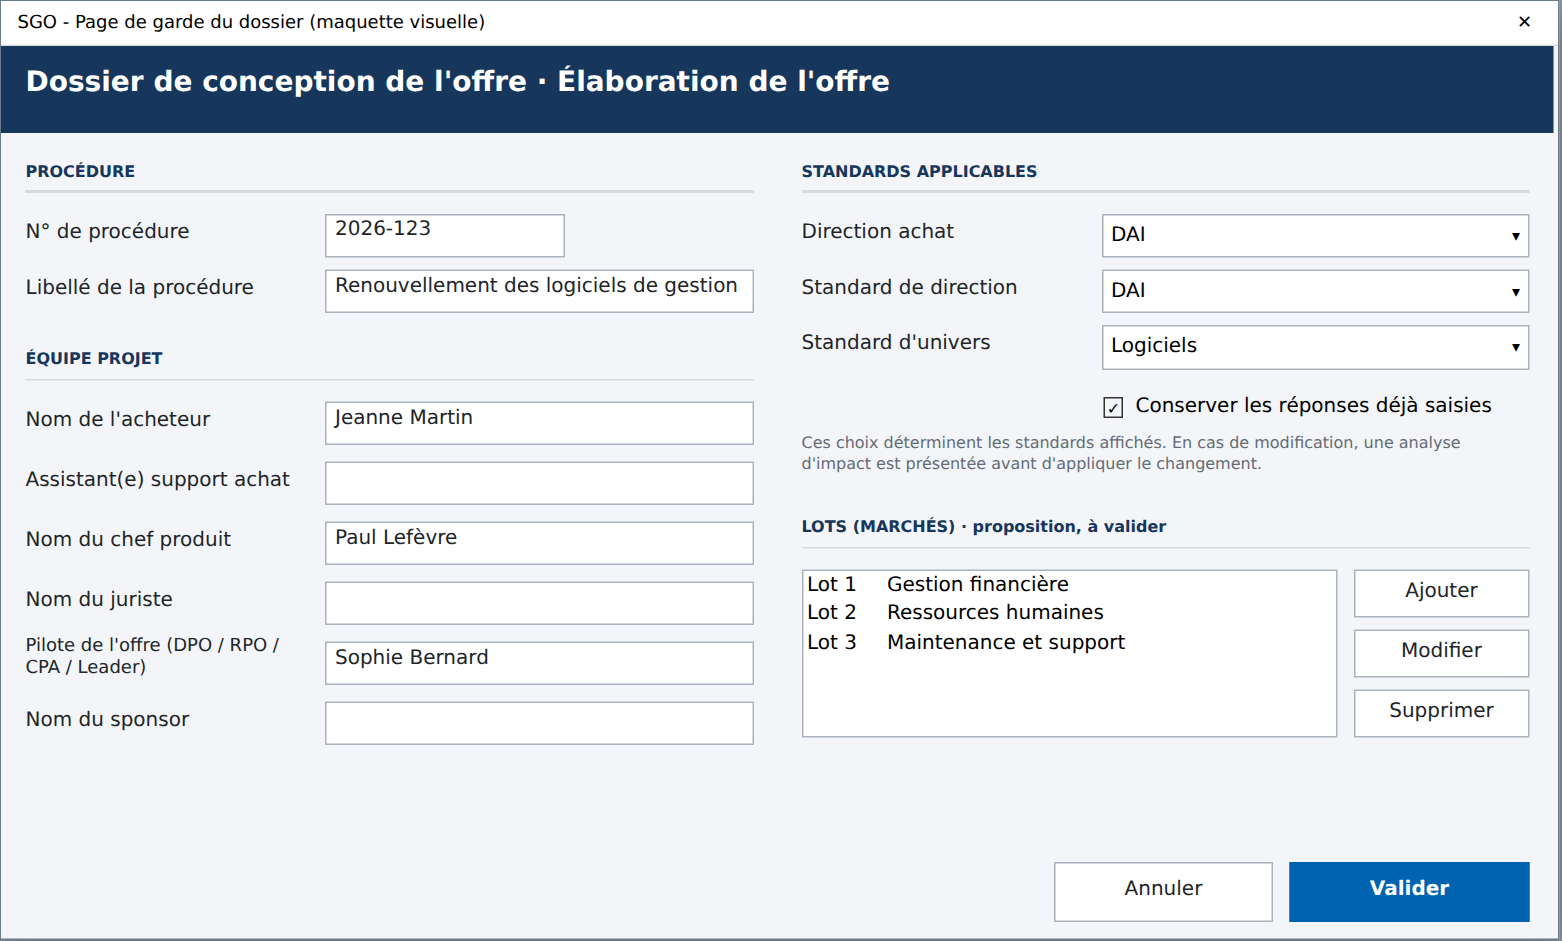
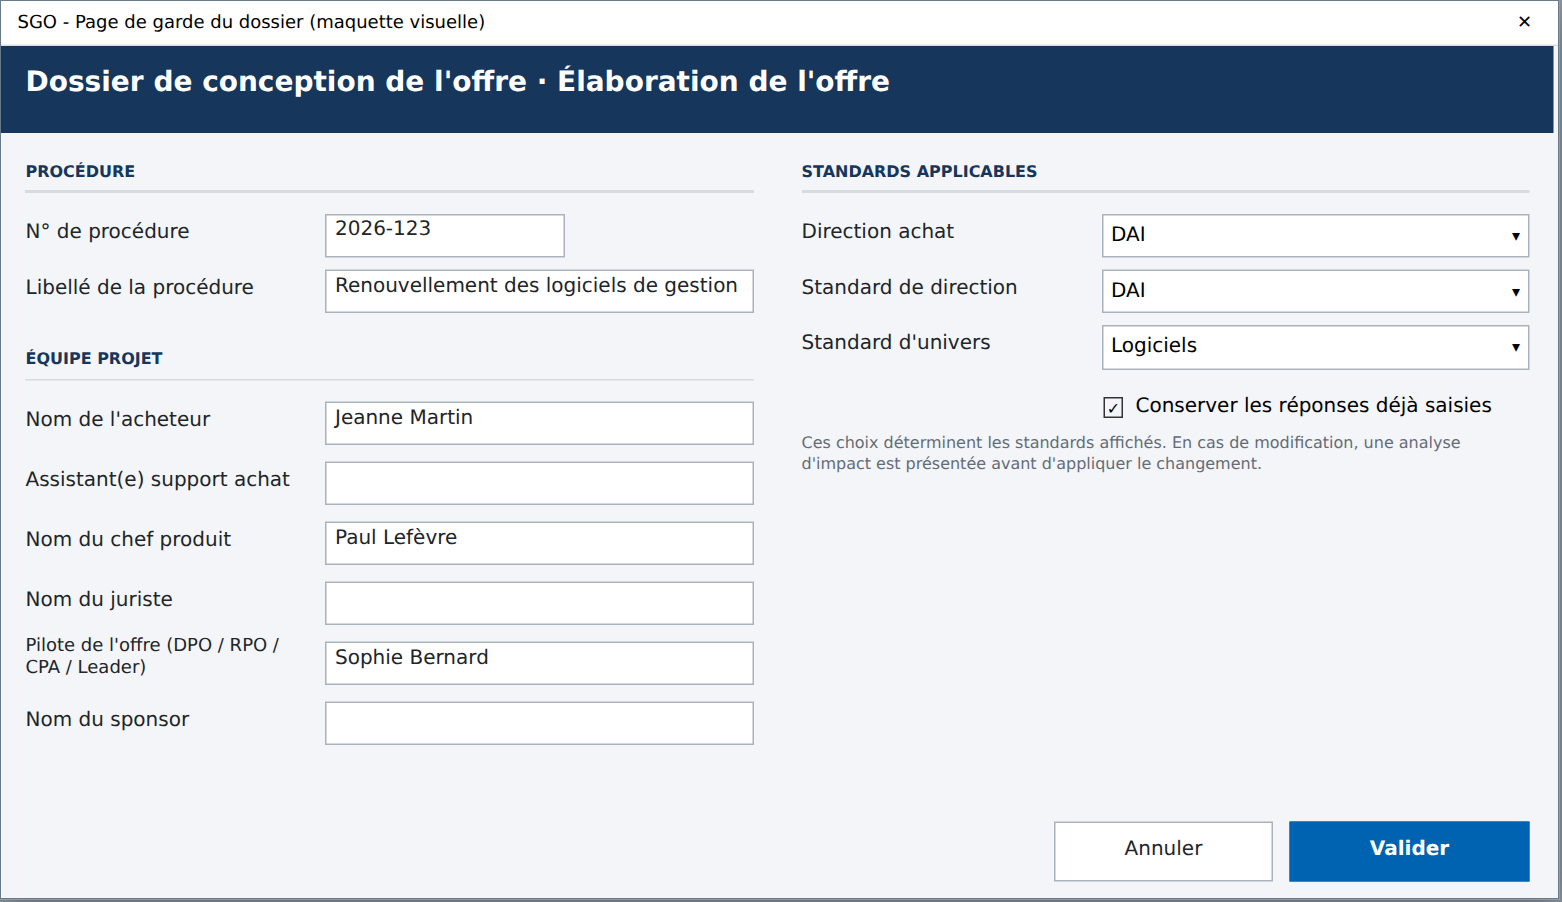
Retire les lots de la maquette (traites apres la saisie des questions)
- page de garde sans section lots, bandeau sans 'Lot : tous'
- Q1 tranchee dans cadrage, analyse et journal des iterations

Claude-Session: https://claude.ai/code/session_017oSvUWwowccMrF9ZeHnUwy

diff --git a/docs/iterations.md b/docs/iterations.md
@@ -49,15 +49,14 @@ Ce fichier sert aussi de point de reprise d'une session à l'autre.
     - 6 noms de l'équipe projet, dans l'ordre de tabulation validé ;
     - direction achat, standard de direction, standard d'univers ;
     - « Conserver les réponses déjà saisies », Valider / Annuler.
-    - Les lots y figurent comme proposition. Le bouton ADMIN est retiré : l'administration sera un outil séparé.
-- **Hypothèses en attendant les réponses** :
-  - Q1 lots : pas de saisie par lot dans l'écran pour l'instant ;
-  - Q13 relecteurs : ils commentent dans l'outil.
-- **À valider avec le chef de projet** : le bloc Réponse, la page Commentaires, les réponses à Q1, Q11 et Q13.
+    - Le bouton ADMIN est retiré : l'administration sera un outil séparé.
+- **Décision (Q1, lots)** : les lots ne sont **pas** dans la page de garde ni dans la saisie des questions. Dans l'outil d'origine, une macro génère une feuille avec une ligne par lot, à partir du nombre de lots. Ce sera **intégré après la saisie des questions**, dans une itération ultérieure. Les lots sont retirés de la maquette.
+- **Hypothèse en attendant la réponse** : Q13 relecteurs, ils commentent dans l'outil.
+- **À valider avec le chef de projet** : le bloc Réponse, la page Commentaires, les réponses à Q11 et Q13.
 
 ## Prochaines itérations (indicatif)
 | N° | Contenu |
 |---|---|
 | 5 | Maquette de l'écran **Revue** (les 5 synthèses) |
 | 6 | **Preuve de concept** : `.xlam` minimal qui lit les questions et les standards et calcule standard et conformité ; test d'installation sur un poste verrouillé de la DSI |
-| 7+ | Écran de saisie branché sur les vraies données, enregistrement, commentaires, revue… puis `SGO_Admin.xlam` |
+| 7+ | Écran de saisie branché sur les vraies données, enregistrement, commentaires, revue, **puis les lots** (feuille Détail des lots générée à partir du nombre de lots)… puis `SGO_Admin.xlam` |

diff --git a/docs/cadrage.md b/docs/cadrage.md
@@ -277,7 +277,7 @@ planningVBA/
 
 | # | Question |
 |---|---|
-| Q1 | **Lots** : les réponses se font-elles par lot ou pour toute l'offre ? Seulement certaines questions, ou certains chapitres, sont-ils par lot ? Combien de lots en général ? Je relie cette question aux 30 questions de mode « Annexe 10 – Détail lots ». |
+| Q1 | ✅ **Lots, tranché le 06/10** : pas de lots dans la page de garde ni dans la saisie des questions. Comme dans l'outil d'origine, une feuille Détail des lots sera générée à partir du nombre de lots, **après** la saisie des questions, dans une itération ultérieure. |
 | Q2 | Existe-t-il des **dossiers déjà remplis** dans l'ancien format (`3-Elaboration.O`) qu'il faudra **importer** ? |
 | Q3 | Que signifient les colonnes **« Cas le plus fréquent dans l'établissement »**, **« Différence vs précédent »**, **« Opérateur standard »** (valeurs `=`, `D`, `U`, `Sp`…) et **« Alimente CCAP »** ? Que doit en faire l'outil ? |
 | Q4 | Comment se saisissent les modes **« Annexe 10 – … »** et **« Cartographie ORECA »** ? Est-ce un tableau à remplir ? |

diff --git a/docs/analyse_existant.md b/docs/analyse_existant.md
@@ -191,7 +191,7 @@ SGO.xlam  (code + écrans + référentiel versionné)
 
 | # | Question | État |
 |---|---|---|
-| Q1 | Lots : saisie par lot ? | **En partie résolue** : l'annexe Détail des lots a une ligne par lot, alimentée par environ 27 questions du DCO. À confirmer : ces questions doivent-elles se répondre **par lot** dans l'écran ? |
+| Q1 | Lots : saisie par lot ? | **Tranchée** : les lots seront traités après la saisie des questions (feuille Détail des lots générée à partir du nombre de lots), dans une itération ultérieure |
 | Q3 | Sens des colonnes | **Résolue** (2.1 à 2.3) |
 | Q5 | Opérateurs | **Résolue** (2.4). Reste à confirmer le ET pour les conditions multiples |
 | Q6 | Conformité | **Résolue** : calculée automatiquement |
